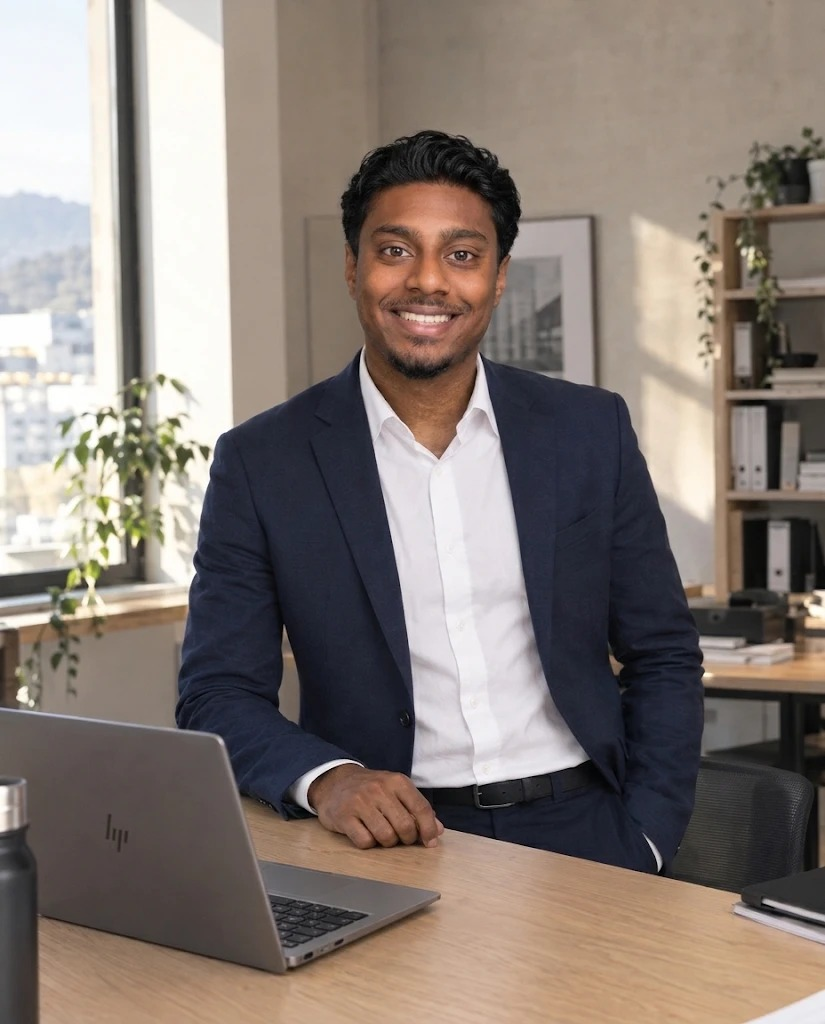
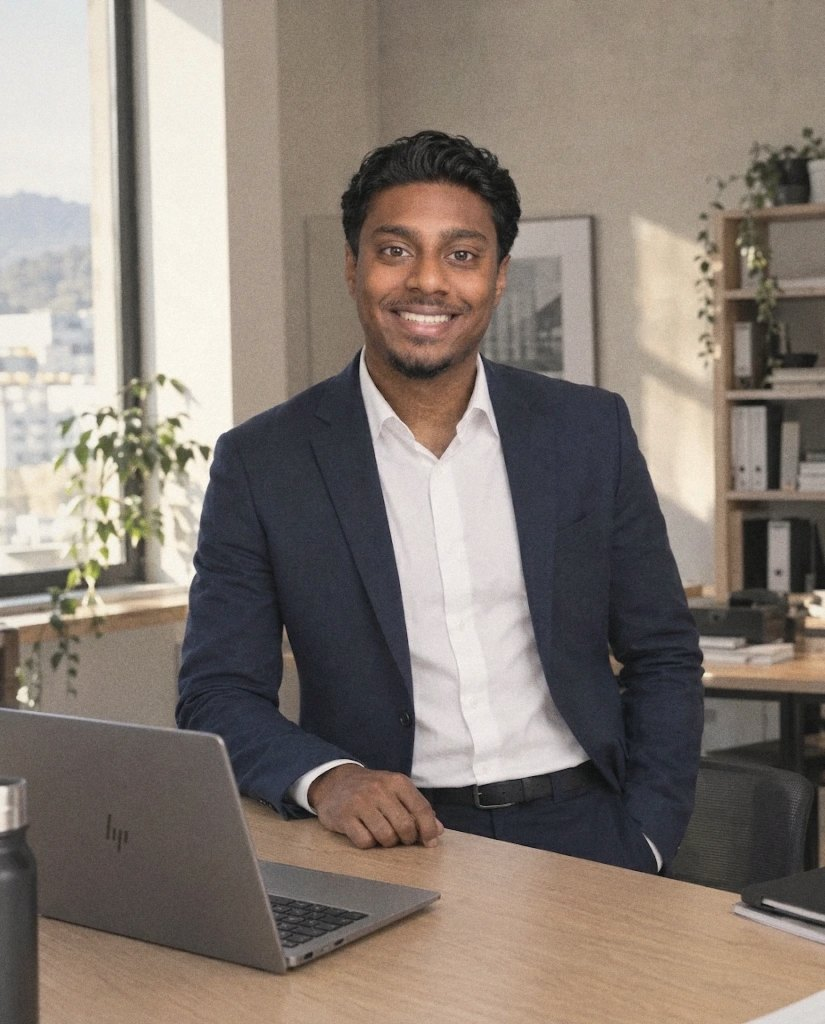
Porträt: Originalbild vollständig, nur Farbe und Korn angepasst

Changed region(s): [[0.0, 0.0, 0.1212, 0.1875], [0.9091, 0.9688, 1.0, 1.0]]

diff --git a/index.html b/index.html
@@ -392,8 +392,8 @@
     <div class="about">
       <figure class="portrait" id="portrait">
         <div class="portrait__frame">
-          <img class="portrait__plan" src="assets/img/dines.jpg?v=3" alt="" aria-hidden="true" width="825" height="1024" loading="lazy" decoding="async" />
-          <img class="portrait__real" src="assets/img/dines.jpg?v=3" alt="Dines Nimalthas an seinem Arbeitsplatz" width="825" height="1024" loading="lazy" decoding="async" />
+          <img class="portrait__plan" src="assets/img/dines.jpg?v=4" alt="" aria-hidden="true" width="825" height="1024" loading="lazy" decoding="async" />
+          <img class="portrait__real" src="assets/img/dines.jpg?v=4" alt="Dines Nimalthas an seinem Arbeitsplatz" width="825" height="1024" loading="lazy" decoding="async" />
           <span class="portrait__scan" aria-hidden="true"></span>
           <i class="crop crop--tl"></i><i class="crop crop--tr"></i><i class="crop crop--bl"></i><i class="crop crop--br"></i>
         </div>
